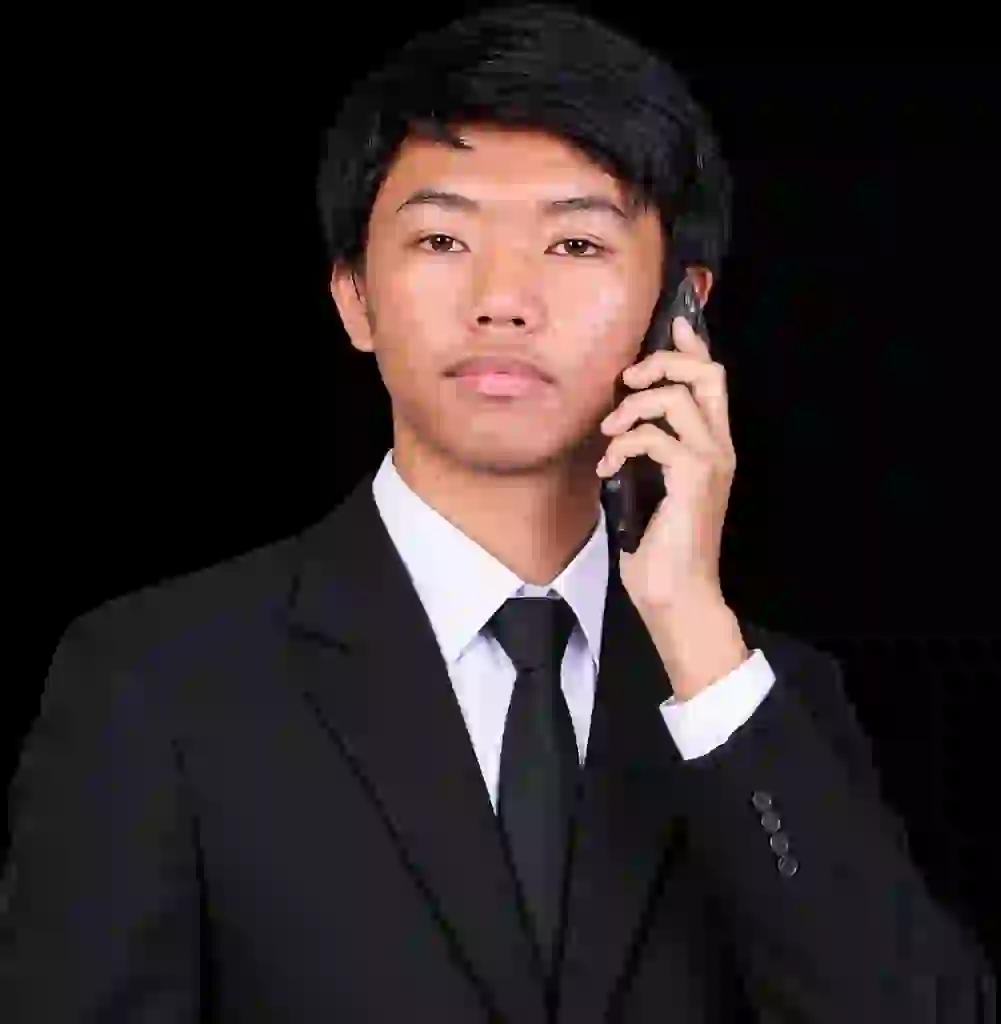
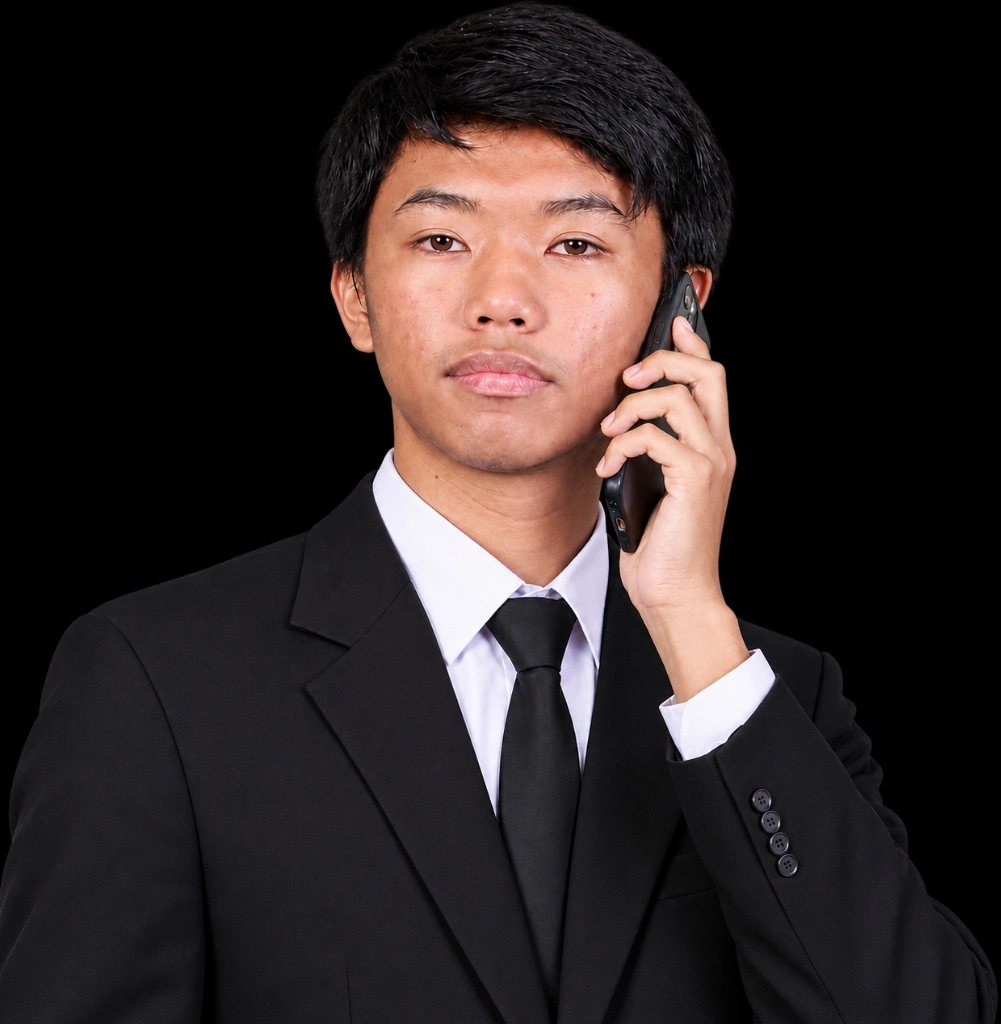
perf: update webp images with custom optimized versions

diff --git a/style.css b/style.css
@@ -1302,7 +1302,7 @@ body {
 .image-bangkit {
   width: 100%;
   height: 100%;
-  background: url(assets/images/foto-bangkit.svg) center / cover no-repeat;
+  background: url(assets/images/foto-bangkit.webp) center / cover no-repeat;
 }
 .year-row-2 {
   width: 500px;
@@ -1517,7 +1517,7 @@ body {
   max-width: 140px;
   height: 140px;
   border-radius: 18px;
-  background: url(assets/images/foto-bangkit.svg) center / cover no-repeat;
+  background: url(assets/images/foto-bangkit.webp) center / cover no-repeat;
   border: 1px solid rgba(255, 255, 255, 0.12);
   position: relative;
   overflow: hidden;
